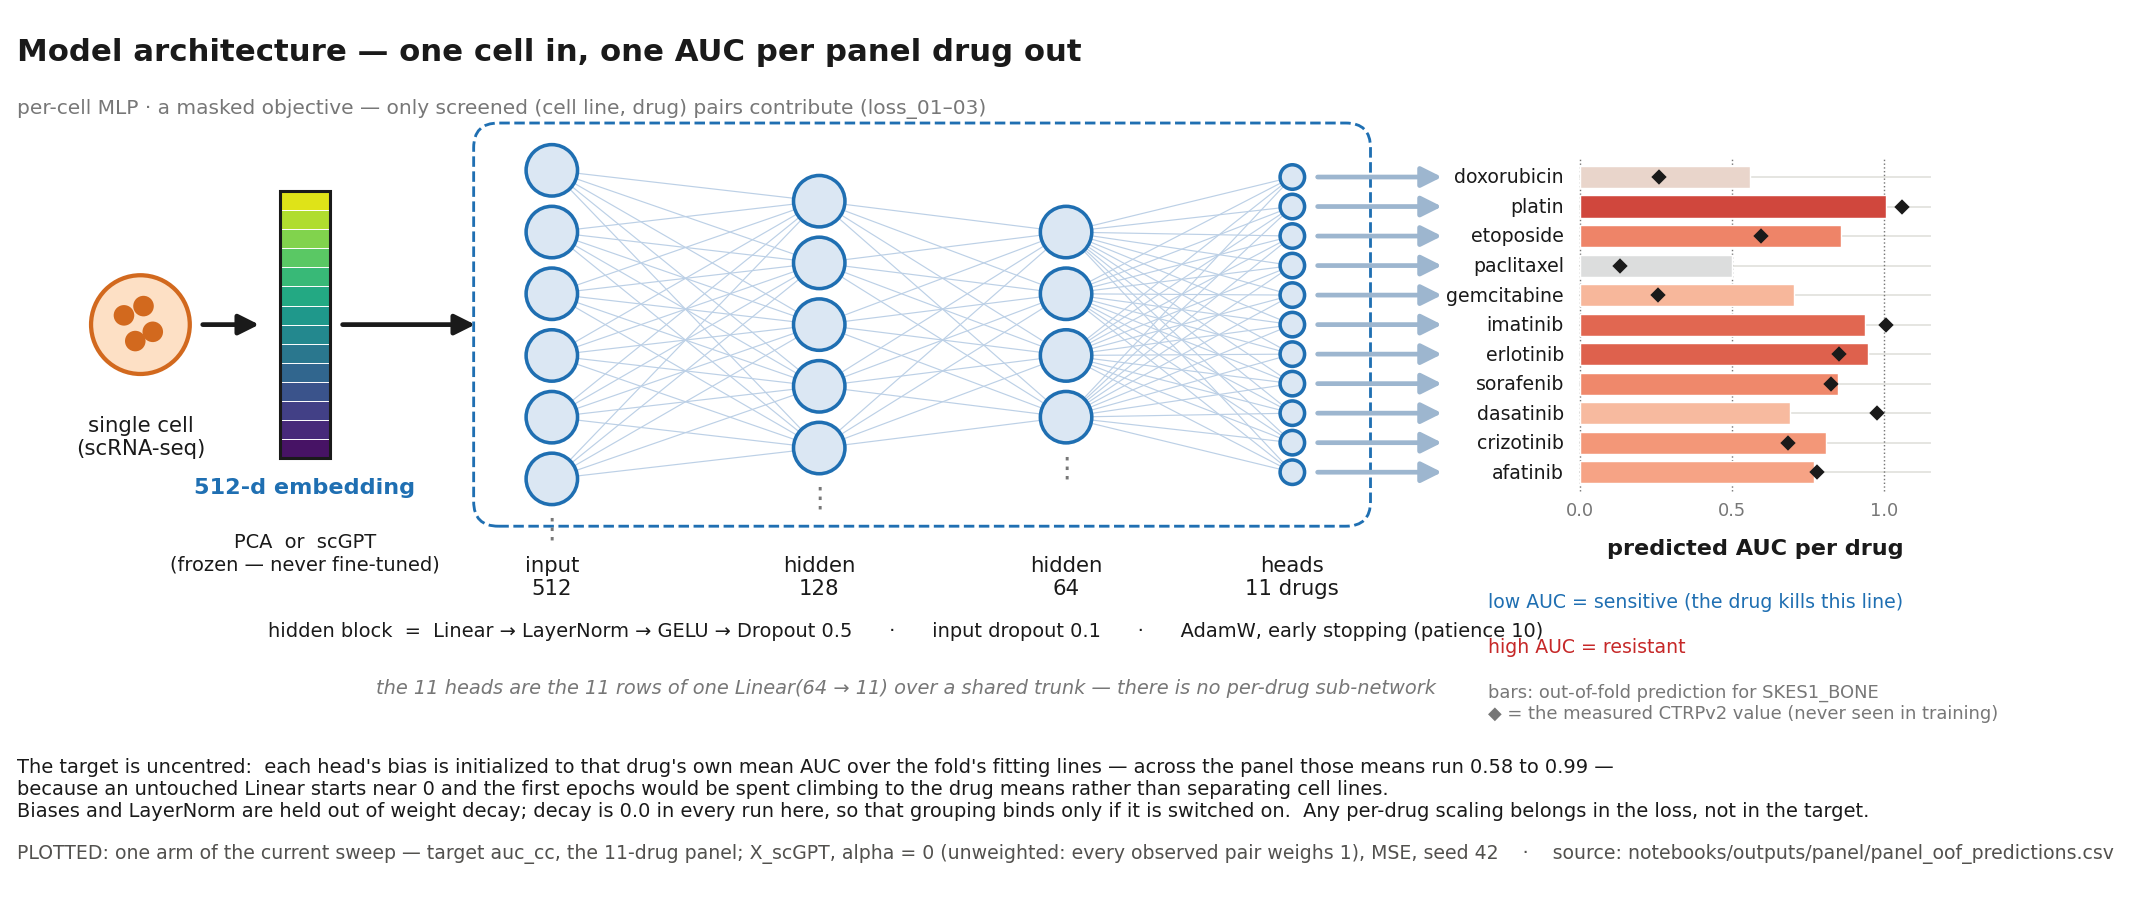
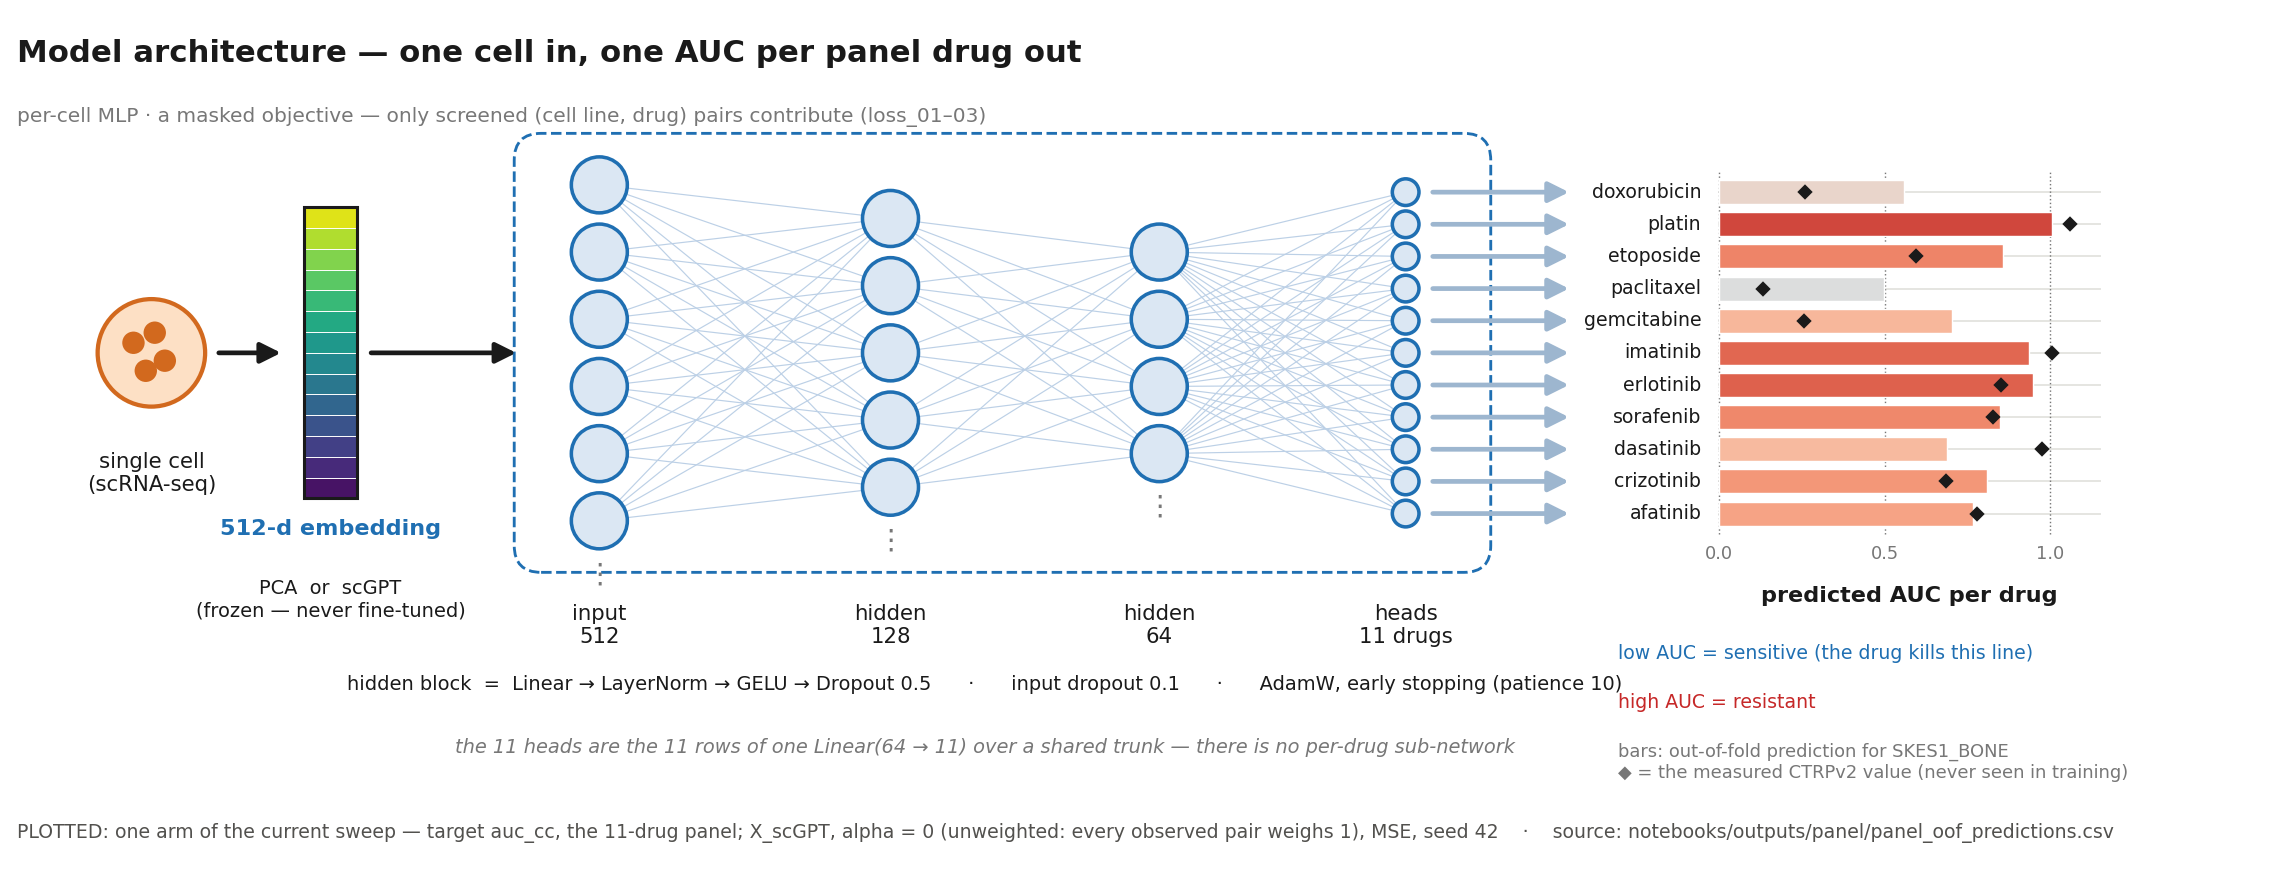
report: move the uncentred-target argument off the figure and into Methods, with citations
Selin's decision, 14.08.2026. The passage was four lines of reasoning set as a caption,
which is make_figures.py's own rule 2: a sentence that would need a citation in prose
needs one here too, and therefore belongs in prose. On a PNG it could be neither cited,
qualified nor disagreed with.

It now sits in report/sections/03_methods.tex, §Representation and model, carrying the
three references it always needed:

  lin2017focal        Lin et al., ICCV 2017, §4.1 -- initializing a final bias at the
                      base rate, done there for a class prior rather than a regression
                      mean, which the note records
  loshchilov2019adamw Loshchilov & Hutter, ICLR 2019 -- why a decay coefficient chosen
                      for Adam does not carry over to AdamW, which is why this model's
                      is 0.0 and why no sourced value exists for either optimizer
  wolf2020transformers  cited as the source of a software CONVENTION rather than a
                      result: Trainer.create_optimizer exempts bias and LayerNorm.weight
                      from decay, which is the grouping adopted here

Both defects the passage carried were repaired BEFORE it moved, so the corrected text is
what travelled -- moving a passage is not a way to stop owning what it says. Methods
therefore states plainly that the bias/LayerNorm grouping currently binds on nothing
because the coefficient is zero, and that whether this model needs weight decay at all
is open.
[…]

Changed region(s): [[0.0, 0.0305, 0.9915, 0.9763]]

diff --git a/docs/make_figures.py b/docs/make_figures.py
@@ -92,13 +92,19 @@ ref.
         The clause after the dash is a strapline; "Model architecture" is the caption.
   ``draw_loss_objective``   "The objective — a weighted, masked mean error"     (written 12.08, mine)
   ``draw_loss_objective``   "per-drug scaling belongs here, in the loss, rather than in the labels"
-  ⚠ ``draw_architecture``  "The target is uncentred: each head's bias is initialized to …"
-        Four lines of reasoning set as a caption, which **still** belongs in Methods where it can be
-        cited — that half is open and is Selin's. A *different passage* from the PLOTTED provenance
-        line below, in the same function; the two sit ten lines apart and have been confused once
-        already.
-        ⛔ **This entry called the passage "Accurate", and it was not — corrected 14.08.2026
-        (Selin).** Two defects sat inside it while this list vouched for it:
+  ✅ ``draw_architecture``  ~~"The target is uncentred: each head's bias is initialized to …"~~
+        **MOVED TO METHODS 14.08.2026 (Selin), and gone from the figure.** It was four lines of
+        reasoning set as a caption, which is rule 2 exactly: a sentence needing a citation in prose
+        needs one here too, and therefore belongs there. It now sits in
+        ``report/sections/03_methods.tex`` §Representation and model with the three citations it
+        always needed and a PNG could not carry — Lin et al. 2017 §4.1 (prior init), Loshchilov &
+        Hutter 2019 (why an Adam-era decay coefficient does not carry to AdamW), and the
+        ``transformers`` library (the bias/LayerNorm exemption). The figure keeps the PLOTTED
+        provenance line, which is a *different passage* ten lines away in the same function and has
+        been confused with this one once already.
+        ⛔ **Before it moved, this entry called the passage "Accurate", and it was not — both defects
+        were repaired first so the corrected text is what travelled (moving a passage is not a way
+        to stop owning what it says):**
           · **"(~0.7)"**, a single hardcoded value for a per-drug quantity spanning **0.58–0.99**.
             It was below the panel's own mean (0.790), well below the full catalogue's (0.893), and
             it contradicted ``OncoMLP.init_head_bias_``'s own docstring — *"``auc_cc`` sits near
@@ -540,12 +546,12 @@ def draw_architecture(ax, *, compact: bool = False):
     fs = 0.70 if compact else 1.0
     xc, xe, lx, x0, span = ((4.5, 9.5, [16, 23, 29, 35], 49.0, 10.5) if compact else
                             (6.0, 14.0, [26, 39, 51, 62], 76.0, 17.0))
-    # Non-compact lower bound dropped 14 -> 11 on 12.08.2026 to make room for the "plotted" note
-    # below the uncentred-target paragraph, and 11 -> 10 on 14.08.2026 when that paragraph went from
-    # two lines to three: at 11 the note sat one line-height below the paragraph and read as its
-    # fourth line rather than as a separate provenance note. Compact is untouched: it is embedded in
-    # pipeline.png, which has its own layout, and it draws neither of those notes.
-    ax.set_xlim(0, 62 if compact else 100); ax.set_ylim(23 if compact else 10, 47 if compact else 52)
+    # Non-compact lower bound: 14 -> 11 on 12.08.2026 to fit the "plotted" note under the
+    # uncentred-target paragraph, 11 -> 10 earlier on 14.08.2026 when that paragraph grew to three
+    # lines, and back to 14 once the paragraph moved to Methods the same day -- the note is now the
+    # only thing below the legends and sits where the paragraph began. Compact is untouched: it is
+    # embedded in pipeline.png, which has its own layout, and it draws neither note.
+    ax.set_xlim(0, 62 if compact else 100); ax.set_ylim(23 if compact else 14, 47 if compact else 52)
     ax.set_aspect("equal"); ax.axis("off")
 
     if not compact:
@@ -688,16 +694,24 @@ def draw_architecture(ax, *, compact: bool = False):
     #    own comment records that "whether this model needs weight decay is OPEN, not settled", the
     #    evidence that used to close it being void. The grouping is insurance against a decision not
     #    yet taken, and saying exactly that is both accurate today and still accurate if it is.
-    lo, hi = _panel_drug_mean_range()
-    ax.text(0, 16.0,
-            "The target is uncentred:  each head's bias is initialized to that drug's own mean AUC "
-            f"over the fold's fitting lines — across the panel those means run {lo:.2f} to {hi:.2f} —\n"
-            "because an untouched Linear starts near 0 and the first epochs would be spent climbing "
-            "to the drug means rather than separating cell lines.\n"
-            "Biases and LayerNorm are held out of weight decay; decay is 0.0 in every run here, so "
-            "that grouping binds only if it is switched on.  Any per-drug scaling belongs in the "
-            "loss, not in the target.",
-            ha="left", va="top", fontsize=8.2, color=INK)
+    # ---- the uncentred-target paragraph lived here until 14.08.2026 ----
+    #
+    # MOVED TO report/sections/03_methods.tex, §Representation and model (Selin's decision). It was
+    # four lines of reasoning set as a caption, which is this module's rule 2: a sentence that would
+    # need a citation in prose needs one here too, and therefore belongs in prose. In Methods it now
+    # carries the three it always needed and could not have -- Lin et al. 2017 §4.1 for prior init,
+    # Loshchilov & Hutter 2019 for why an Adam-era decay coefficient does not carry to AdamW, and
+    # the transformers library for the bias/LayerNorm exemption it follows.
+    #
+    # Both defects the passage was carrying were repaired first and travelled with it, so what moved
+    # is the corrected text: the "~0.7" became a derived RANGE (\PanelMeanLo..\PanelMeanHi in
+    # report/results_numbers.tex, from :func:`_panel_drug_mean_range`), and the inert "decay would
+    # pull it to 0" became the honest statement that the coefficient is zero and the grouping
+    # therefore binds on nothing. Moving a passage is not a way to stop owning what it says.
+    #
+    # :func:`_panel_drug_mean_range` is deliberately KEPT even though no figure draws it now. It is
+    # what re-derives the two macros when the run changes, and the macro file says so; deleting it
+    # would leave the report's only copy of the number hand-maintained with nothing to check it.
 
     # Rewritten 14.08.2026, and it is a REPLACEMENT rather than an edit, because every clause of the
     # old sentence had gone false at once. It read "PLOTTED: the superseded run -- auc winsorized at
@@ -713,7 +727,7 @@ def draw_architecture(ax, *, compact: bool = False):
     # field is read from EXAMPLE_ARM and PANEL, so it cannot drift from the vector it describes --
     # the same reason the vector itself is derived. Colour drops from RED to MUTED with the change
     # of job. Plain ASCII: matplotlib's default font renders the warning emoji as a tofu box.
-    ax.text(0, 11.8,
+    ax.text(0, 16.0,
             f"PLOTTED: one arm of the current sweep — target auc_cc, the {len(PANEL)}-drug panel; "
             f"{EXAMPLE_ARM['rep']}, alpha = {EXAMPLE_ARM['alpha']:g} (unweighted: every observed "
             f"pair weighs 1), {EXAMPLE_ARM['loss'].upper()}, seed {EXAMPLE_ARM['seed']}"

diff --git a/report/sections/03_methods.tex b/report/sections/03_methods.tex
@@ -411,6 +411,35 @@ splits are three-way. The fifteen per cent is arbitrary --- it was preferred to 
 neighbouring fold, which would have cost twenty per cent of the training lines.
 \end{revisionblock}
 
+\begin{revisionblock}
+\textbf{The target is uncentred, and the output layer is initialised for it (moved here 14.08.2026).}
+Viability is not centred on zero, and its centre is not one number: across the eleven panel compounds
+the mean response runs from \PanelMeanLo{} to \PanelMeanHi{}. A freshly initialised linear layer
+predicts near zero, so a model left to discover those levels by gradient descent spends its first
+epochs climbing to them rather than separating cell lines --- and under early stopping that is not
+merely slow, since the checkpoint can be selected before the between-line structure has been fitted at
+all. Each output head's bias is therefore initialised at its own drug's mean, computed on the lines
+that fold fits on and never on the lines it is scored against. Initialising a final bias at the base
+rate is standard practice for exactly this reason \cite{lin2017focal}, where it is done for a class
+prior rather than a regression mean. It does not start the model at a constant predictor: the head's
+weight rows are still randomly initialised, so the predictions scatter from the outset.
+
+Biases and normalisation parameters are held out of weight decay, following the convention of the
+\code{transformers} library, whose optimiser construction exempts precisely these
+\cite{wolf2020transformers}. It should be said plainly that the grouping currently binds on nothing,
+because the decay coefficient is zero. It is zero because the value the project had inherited was
+chosen for Adam, which couples the decay into the gradient and lets the adaptive scaling divide
+through it, whereas the decoupled form used here applies it directly to the parameters
+\cite{loshchilov2019adamw}; the same nominal coefficient does not mean the same thing under the two,
+and no sourced value exists for either. Whether this model needs weight decay at all is open, and the
+grouping is retained so that the question can be settled by changing one coefficient rather than by
+also having to decide what ought to be decayed.
+
+No per-drug rescaling is applied to the target itself. Where a drug's scale has to enter, it enters
+the objective as a weight, so that the quantity predicted and the quantity reported remain the
+published response value.
+\end{revisionblock}
+
 \subsection{Response target}
 \label{sec:target}
 

diff --git a/report/results_numbers.tex b/report/results_numbers.tex
@@ -47,6 +47,16 @@
                                    % recorded as arbitrary in docs/steps/01, section "The
                                    % 50-cell-line drug cut". This is the h5ad's width
                                    % (53,513 x 534), uns["ctrp_drugs"], and K in Results.
+% Per-DRUG mean auc_cc across the panel -- the levels the output-layer biases are initialized to.
+% A range, not a mean, because the point they make is that the centre is per drug: initializing
+% every head at one value is the thing the per-head initialization exists to avoid. Computed over
+% the out-of-fold rows of the plotted arm in notebooks/outputs/panel/panel_oof_predictions.csv
+% (X_scGPT, alpha=0, mse, seed 42), grouped by drug -- docs/make_figures.py::_panel_drug_mean_range.
+% Moved into the report 14.08.2026 (Selin) from a caption on model_architecture.png, where it had
+% been a hardcoded "~0.7" -- below the panel's own mean of 0.790 and contradicting
+% OncoMLP.init_head_bias_'s own docstring ("auc_cc sits near 0.9").
+\newcommand{\PanelMeanLo}{0.58}    % lowest per-drug mean (paclitaxel)
+\newcommand{\PanelMeanHi}{0.99}    % highest per-drug mean (cisplatin, recorded as `platin`)
 \newcommand{\NCells}{53{,}513}     % single cells
 \newcommand{\NGenes}{22{,}722}     % genes in the distributed SCP542 matrix
 % \NIndep was RETIRED 12.08.2026 (Selin) -- it named two different quantities at once
